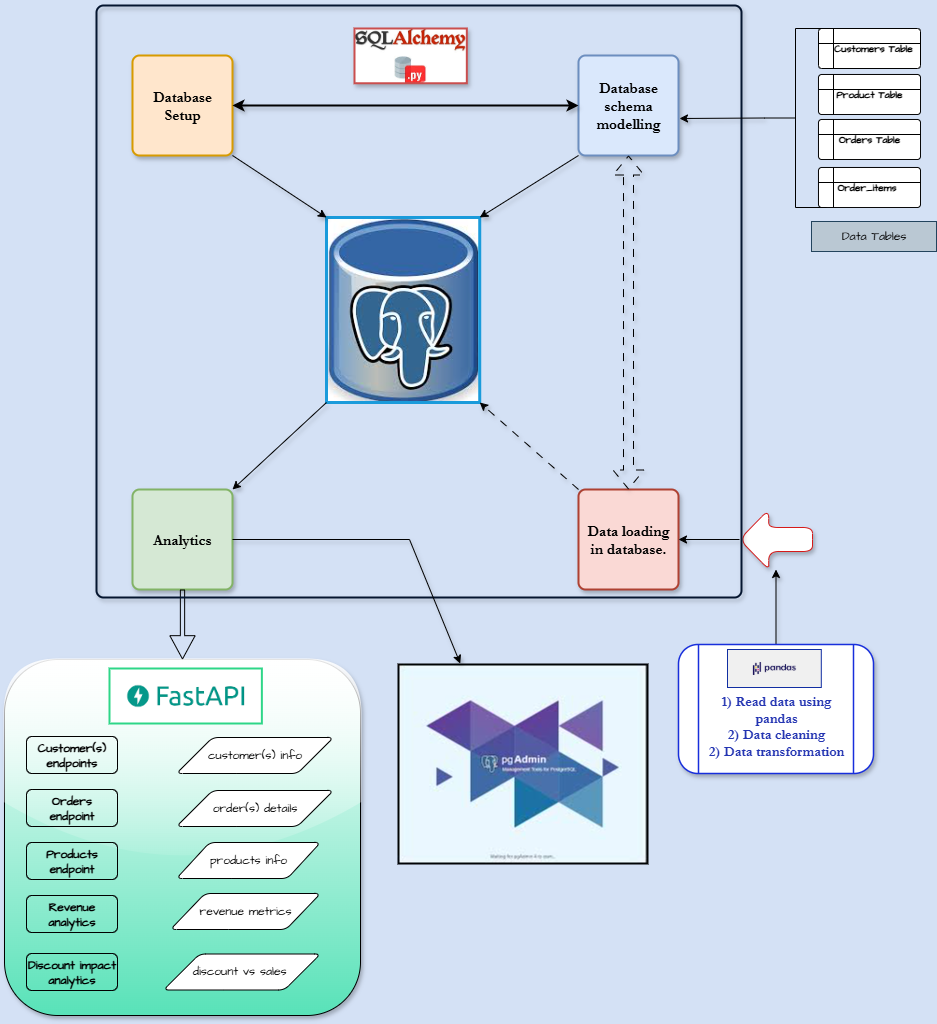
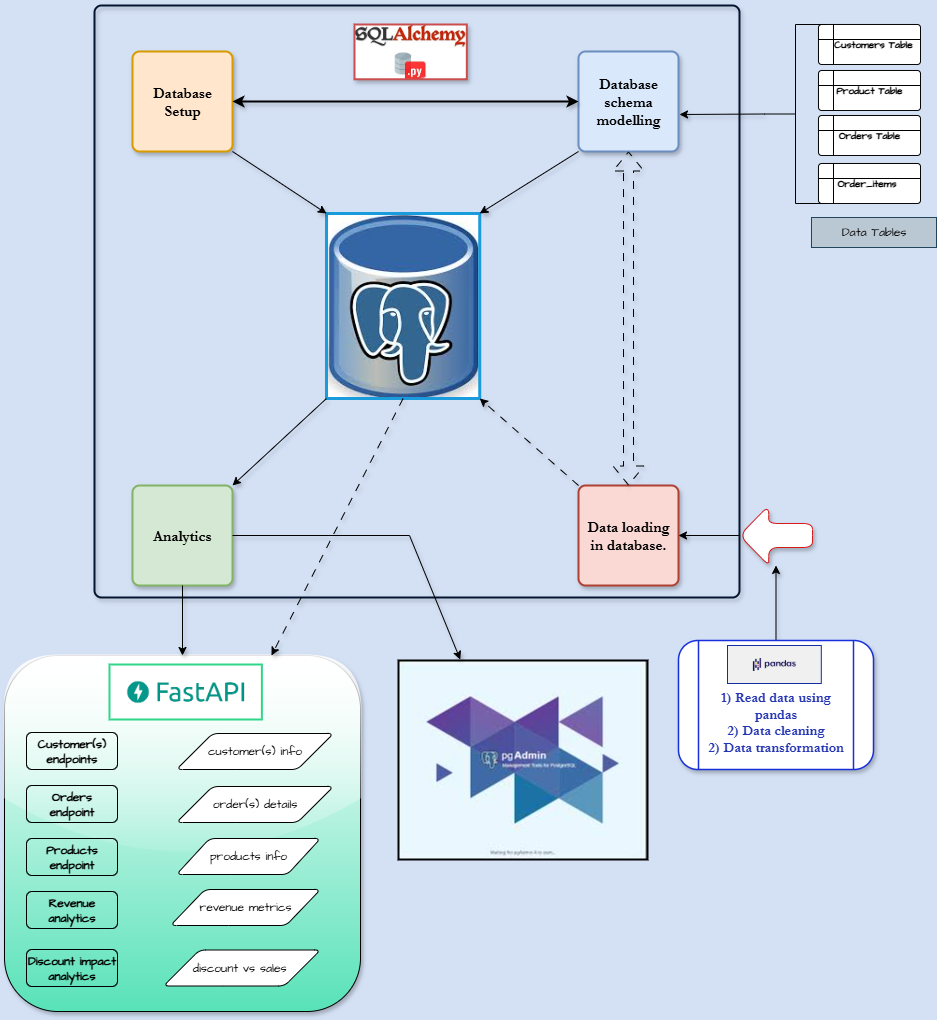
All analytics images added to Readme.md file, flow architecture redrawn

diff --git a/database/crud.py b/database/crud.py
@@ -332,27 +332,27 @@ def discount_impact(session) -> list:
     return summary
 
 
-# if __name__ == "__main__":
-    # # Customers Analysis Insights
-    # cus_insights = customer_insights(session=Session())
-    # print('CUSTOMER INSIGHTS!!!')
-    # for key, value in cus_insights.items():
-    #     print(key, ":", value)
+if __name__ == "__main__":
+    # Customers Analysis Insights
+    cus_insights = customer_insights(session=Session())
+    print('CUSTOMER INSIGHTS!!!')
+    for key, value in cus_insights.items():
+        print(key, ":", value)
 
-    # # Products Analysis Insights
-    # products_insights = product_performance(session=Session())
-    # print('\n\nPRODUCT INSIGHTS!!!')
-    # for key, value in products_insights.items():
-    #     print(key, value, '\n')
+    # Products Analysis Insights
+    products_insights = product_performance(session=Session())
+    print('\n\nPRODUCT INSIGHTS!!!')
+    for key, value in products_insights.items():
+        print(key, value, '\n')
 
-    # # Order Analysis Insights
-    # order_insights = order_analysis(session=Session())
-    # print('\nORDER ANALYSIS INSIGHTS')
-    # for key, value in order_insights.items():
-    #     print(key, value)
+    # Order Analysis Insights
+    order_insights = order_analysis(session=Session())
+    print('\nORDER ANALYSIS INSIGHTS')
+    for key, value in order_insights.items():
+        print(key, value)
 
     # Discount Impact Analysis
-    # dis_impact = discount_impact(session=Session())
-    # print("DISCOUNT IMPACT ANALYSIS")
-    # for dis in dis_impact:
-    #     print("Discount Effect %s", dis)
+    dis_impact = discount_impact(session=Session())
+    print("DISCOUNT IMPACT ANALYSIS")
+    for dis in dis_impact:
+        print("Discount Effect %s", dis)

diff --git a/database/models.py b/database/models.py
@@ -20,7 +20,7 @@ class CustomersTable(Base):
         Base (Class): Table declarative class.
     """
 
-    __tablename__ = "c:\Users\APIN PC\Downloads\database_project-Page-2.drawio (3).png"
+    __tablename__ = "Customers"
 
     id = Column(Integer, primary_key=True, autoincrement=True)
     customer_id = Column(String(20), unique=True)

diff --git a/README.md b/README.md
@@ -51,41 +51,44 @@ ecommerce_api/
     │   ├── FastAPI structure.png
 ```
 
-### Project Process Map
-![alt text](<images/Ecommerce Database Project Process Map.jpg>)
+### Project Flow Architecture
+![alt text](images/flow_architecture.png)
 
 ### Database Schema and Relationships
-![alt text](<images/ecommerce database schema [MConverter.eu].png>)
-
+![alt text](images/database_schema.png)
 
 ### INSIGHTS GLEANED FROM THE DATABASE.
 #### 1⃣ Customer Insights
-```
 Q1) Total number of unique customers
+![alt text](images/Q1.png)
 Q2) Number of customers per device type (Web/Mobile)
+![alt text](images/Q2.png)
 Q3) Percentage of members vs. guest users.
-```
+![alt text](images/Q3.png)
+
 
 #### 2⃣ Product Performance
-```
 Q4) Top 5 best-selling products based on sales.
-Q5) Top 3 product categories with the highest revenue.\
+![alt text](images/Q4.png)
+Q5) Top 3 product categories with the highest revenue.
+![alt text](images/Q5.png)
 Q6) Products with the highest profit margins.
-```
+![alt text](images/Q6.png)
 
 #### 3⃣ Order Analysis
-```
-Q7) Average order size (quantity per order).\
-Q8) Total revenue and profit.\
+Q7) Average order size (quantity per order).
+![alt text](images/Q7.png)
+Q8) Total revenue and profit.
+![alt text](images/Q8.png)
 Q9) Percentage of orders placed with High or Critical priority.
-```
+![alt text](images/Q9.png)
 
 #### 4⃣ Discount Impact
 Q10) Does higher discount % lead to more sales?
+![alt text](images/Q10.png)
 
 
 ### **🔹API Endpoints with FastAPI**
-
 **Endpoint	             Method	      Description**
 ```
 */customers/*	            GET	    Get all customers
@@ -149,12 +152,14 @@ http://127.0.0.1:8000/redoc
 
 ### Dependencies
 ```
-polars (>=1.24.0,<2.0.0)
 pandas (>=2.2.3,<3.0.0)
 sqlalchemy (>=2.0.38,<3.0.0)
 psycopg2 (>=2.9.10,<3.0.0)
 fastapi (>=0.115.11,<0.116.0)
 dotenv (>=0.9.9,<0.10.0)
+
+[tool.poetry.group.dev.dependencies]
+black = "^25.1.0" - for code formatting
 ```
 
 ## Author : Arowosegbe Victor Iyanuoluwa.
